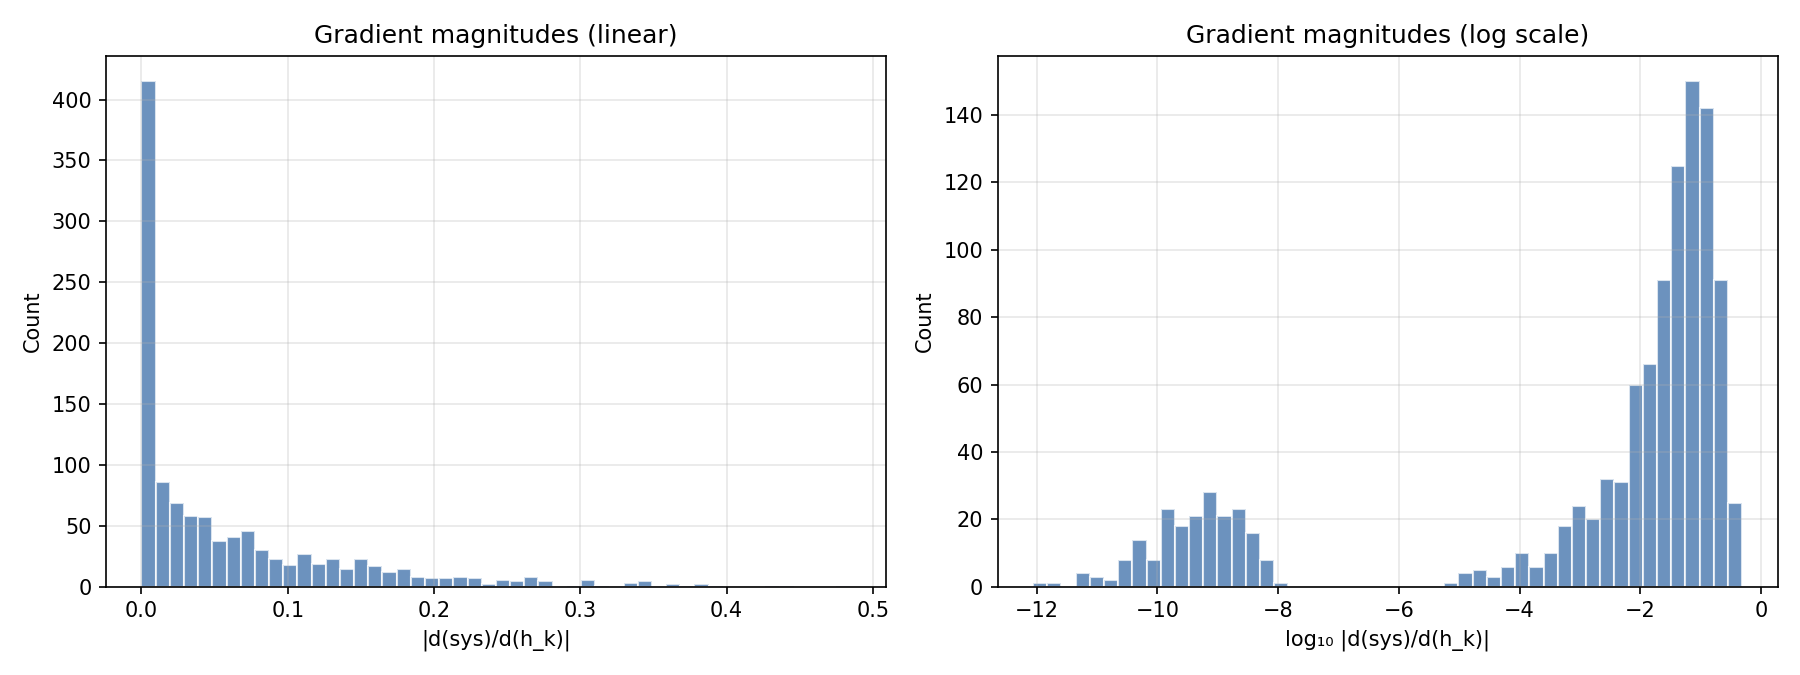
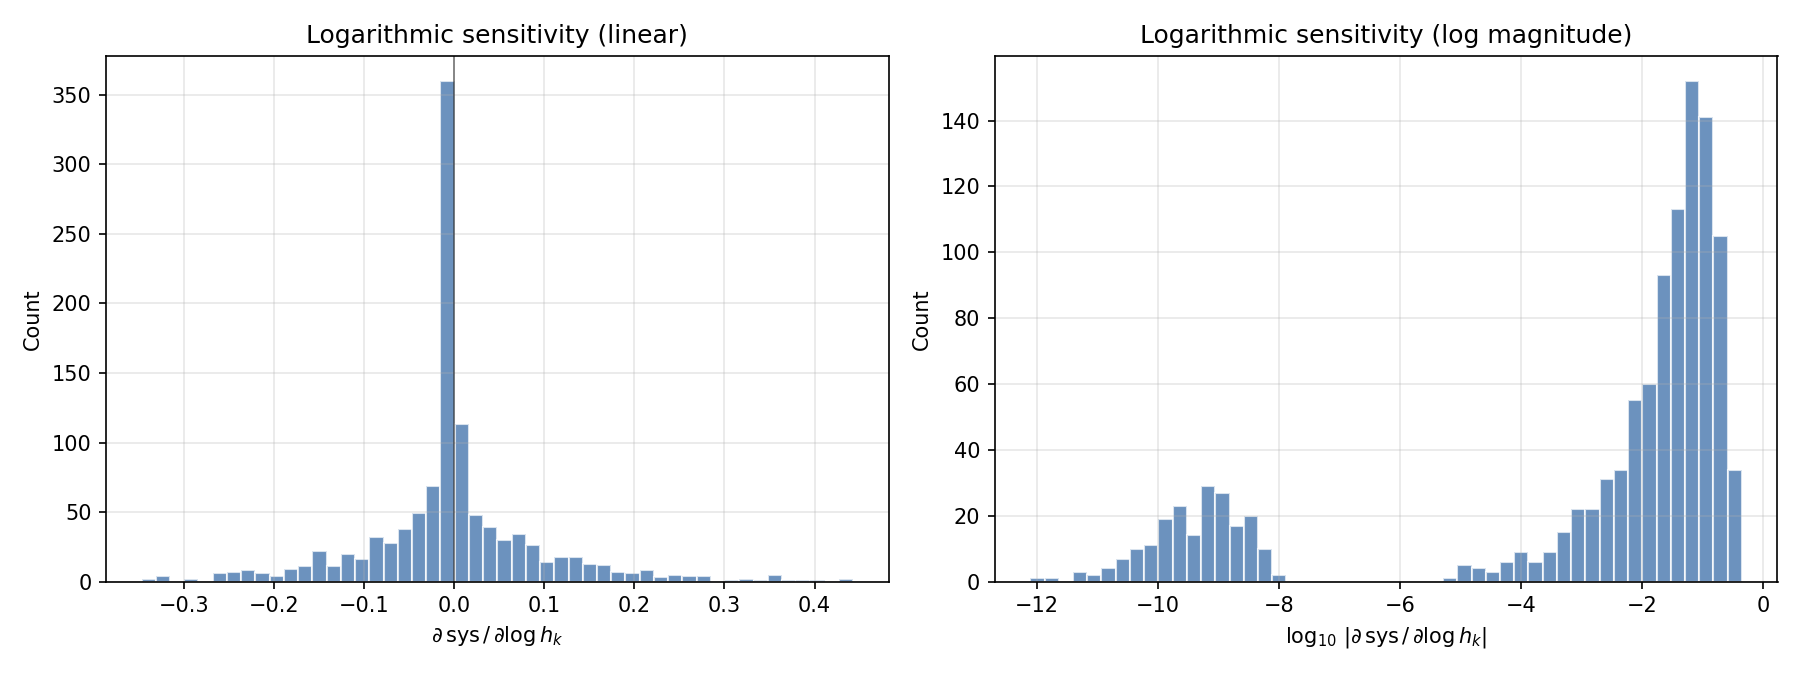
Use logarithmic derivative d(sys)/d(log h_k) in gradient histogram
h_k * d(sys)/d(h_k) is scale-invariant and more natural for comparing
across polytopes. Also shows signed values (left panel) to reveal the
symmetry between growing and shrinking facets.

diff --git a/experiments/sys-optimization/sys_optimization.py b/experiments/sys-optimization/sys_optimization.py
@@ -40,12 +40,13 @@ def load_jsonl(path: Path) -> list[dict]:
 # =============================================================================
 
 def plot_gradient_histogram(sens_rows: list[dict], output_path: Path) -> None:
-    """Histogram of |d(sys)/d(h_k)| across all polytopes and facets."""
+    """Histogram of d(sys)/d(log h_k) = h_k * d(sys)/d(h_k), signed."""
     all_grads = []
     for r in sens_rows:
-        for ds in r["d_sys"]:
+        heights = r["heights"]
+        for k, ds in enumerate(r["d_sys"]):
             if ds is not None and np.isfinite(ds) and abs(ds) > 1e-15:
-                all_grads.append(abs(ds))
+                all_grads.append(heights[k] * ds)
 
     if not all_grads:
         print("WARNING: no gradient data to plot", file=sys.stderr)
@@ -55,19 +56,21 @@ def plot_gradient_histogram(sens_rows: list[dict], output_path: Path) -> None:
 
     fig, (ax1, ax2) = plt.subplots(1, 2, figsize=(12, 4.5))
 
-    # Linear scale
+    # Signed histogram (linear scale)
     ax1.hist(all_grads, bins=50, color="#3b6ea8", alpha=0.75, edgecolor="white")
-    ax1.set_xlabel("|d(sys)/d(h_k)|")
+    ax1.axvline(x=0, color="black", linewidth=0.8, alpha=0.5)
+    ax1.set_xlabel(r"$\partial\,\mathrm{sys}\,/\,\partial\log h_k$")
     ax1.set_ylabel("Count")
-    ax1.set_title("Gradient magnitudes (linear)")
+    ax1.set_title("Logarithmic sensitivity (linear)")
     ax1.grid(True, alpha=0.3)
 
-    # Log scale
-    log_grads = np.log10(all_grads)
+    # Magnitude on log scale
+    abs_grads = np.abs(all_grads)
+    log_grads = np.log10(abs_grads)
     ax2.hist(log_grads, bins=50, color="#3b6ea8", alpha=0.75, edgecolor="white")
-    ax2.set_xlabel("log₁₀ |d(sys)/d(h_k)|")
+    ax2.set_xlabel(r"$\log_{10}\,|\partial\,\mathrm{sys}\,/\,\partial\log h_k|$")
     ax2.set_ylabel("Count")
-    ax2.set_title("Gradient magnitudes (log scale)")
+    ax2.set_title("Logarithmic sensitivity (log magnitude)")
     ax2.grid(True, alpha=0.3)
 
     fig.tight_layout()

diff --git a/experiments/sys-optimization/sys-optimization.tex b/experiments/sys-optimization/sys-optimization.tex
@@ -221,16 +221,18 @@ random-product-sweep experiments with $F \le 10$.
 
 \subsubsection*{Phase 1: Gradient Structure}
 
-Figure~\ref{fig:sys-opt-gradient} shows the distribution of gradient
-magnitudes $|{\partial\,\mathrm{sys}}/{\partial h_k}|$ across all
-polytopes and facets.
+Figure~\ref{fig:sys-opt-gradient} shows the distribution of the
+logarithmic sensitivity $\partial\,\mathrm{sys}/\partial\log h_k
+= h_k \cdot \partial\,\mathrm{sys}/\partial h_k$ across all polytopes and facets.
+The logarithmic derivative is the natural quantity: it measures the response
+of $\mathrm{sys}$ to a relative (scale-invariant) change in facet height.
 
 \begin{figure}[h]
 \centering
 \includegraphics[width=\textwidth]{../experiments/sys-optimization/sys_optimization_gradient_hist.png}
-\caption{Distribution of gradient magnitudes $|{\partial\,\mathrm{sys}}/{\partial h_k}|$
+\caption{Distribution of $\partial\,\mathrm{sys}/\partial\log h_k$
   across 1120 facets from 140 polytopes.
-  Left: linear scale. Right: log scale.}
+  Left: signed values on linear scale. Right: magnitudes on log scale.}
 \label{fig:sys-opt-gradient}
 \end{figure}
 
